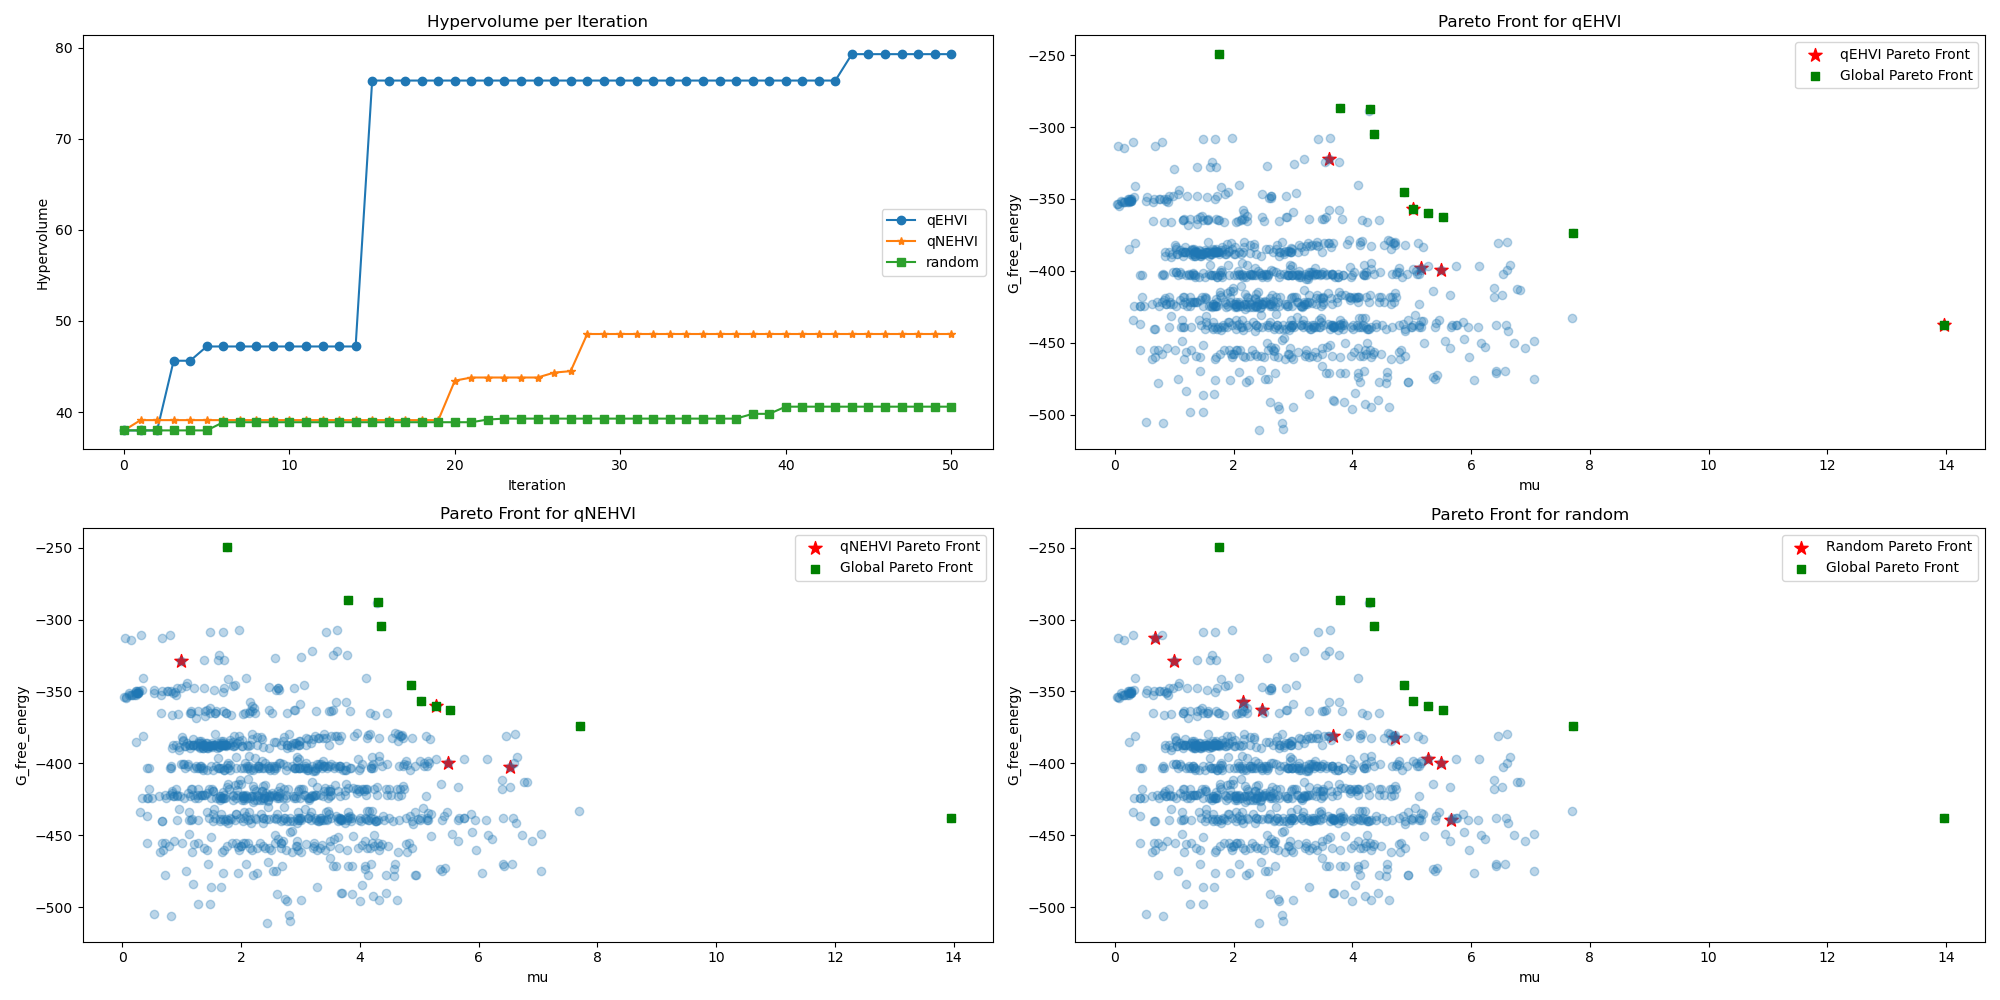
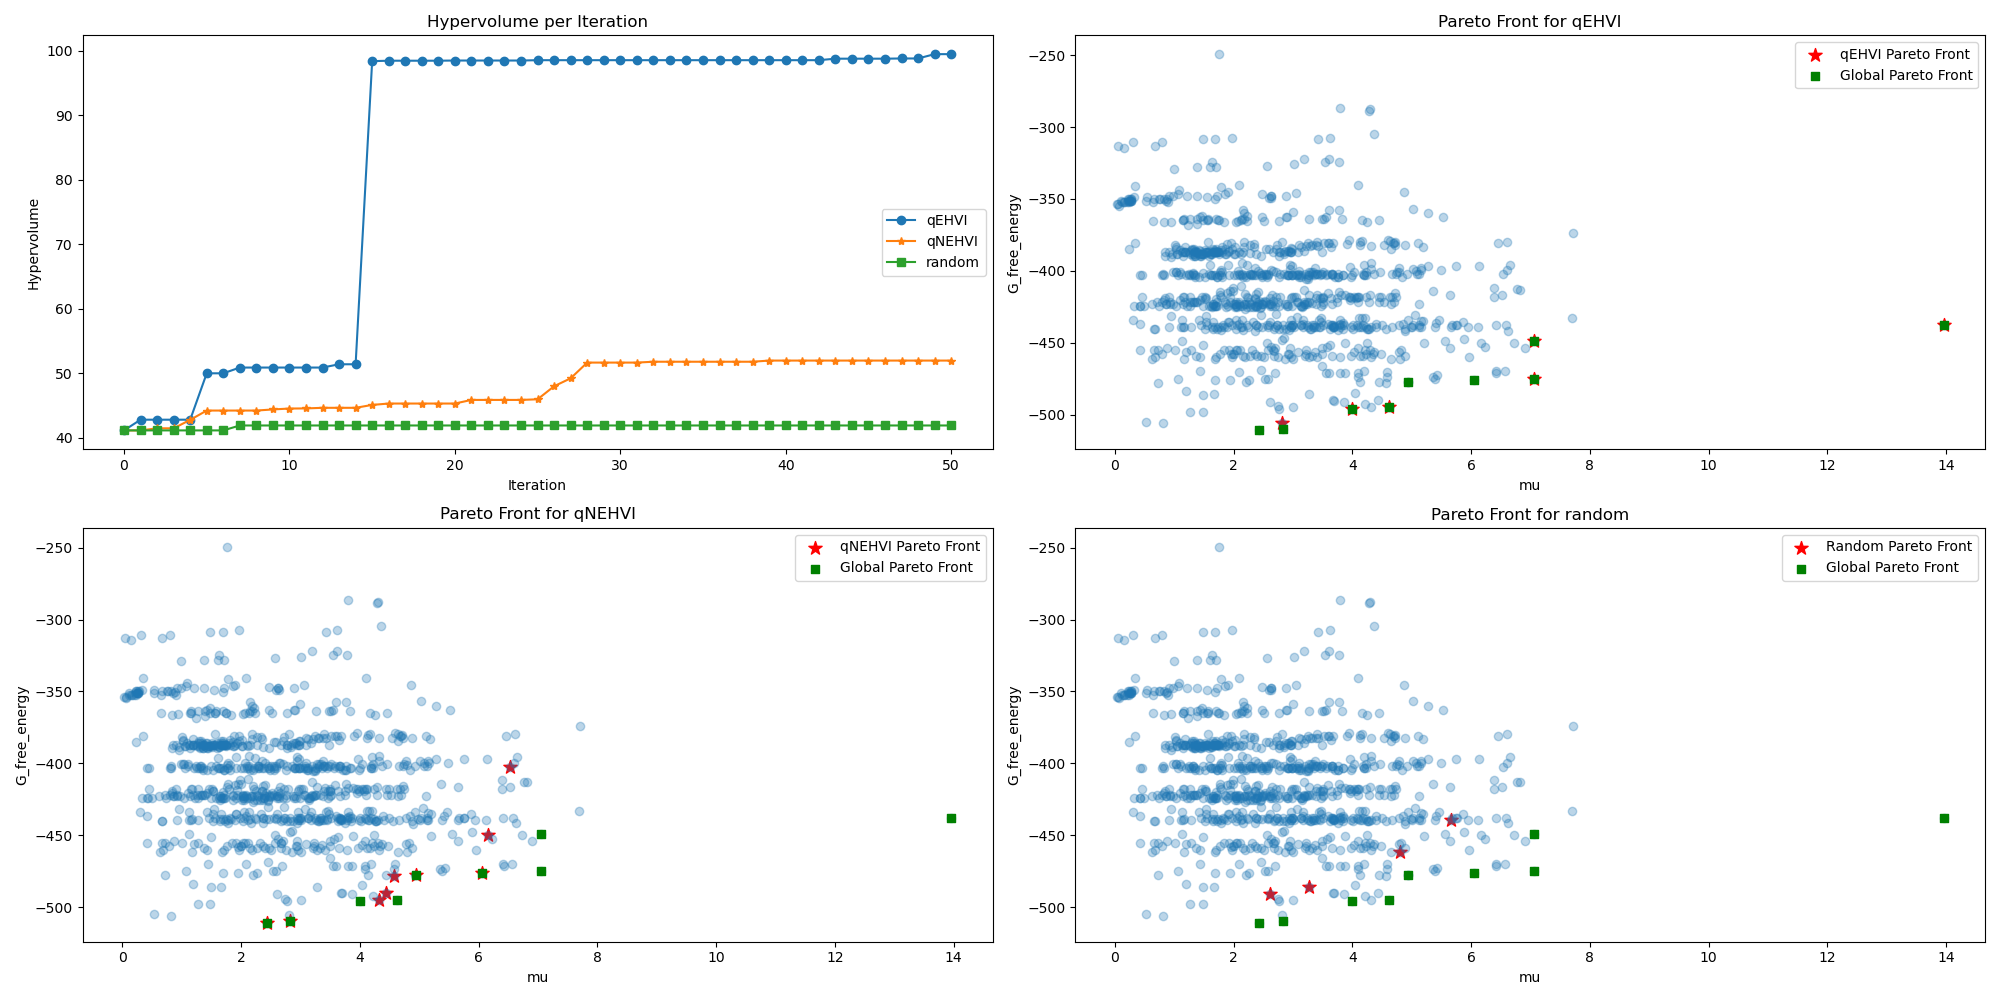
bug fix

diff --git a/src/utils.py b/src/utils.py
@@ -21,14 +21,14 @@ def plot_results(df, targets, target_bool):
     fig, ax = plt.subplots(2, 2, figsize=(20,10))
     ax = ax.flatten()
     global_values = torch.tensor(df[targets].values)
-    for mask in target_bool:
+    for i, mask in enumerate(target_bool):
         if not mask:
-            global_values[:, mask] *= -1
+            global_values[:, i] *= -1
     global_pareto_idx = is_non_dominated(global_values)
     global_pareto_front = global_values[global_pareto_idx]
-    for mask in target_bool:
+    for i, mask in enumerate(target_bool):
         if not mask:
-            global_pareto_front[:, mask] *= -1
+            global_pareto_front[:, i] *= -1
     ref_point = global_values.min(0)[0]
     hv = DominatedPartitioning(ref_point=ref_point, Y=global_values)
     global_hv = hv.compute_hypervolume().item()
@@ -40,9 +40,9 @@ def plot_results(df, targets, target_bool):
         for iter_no in range(max_iterations + 1):
             current_data = df[df[f'iteration_{acq}'] <= iter_no]
             local_values = torch.tensor(current_data[targets].values)
-            for mask in target_bool:
+            for i, mask in enumerate(target_bool):
                 if not mask:
-                    local_values[:, mask] *= -1
+                    local_values[:, i] *= -1
             hv = DominatedPartitioning(ref_point=ref_point, Y=local_values)
             hv_iterations[acq].append(hv.compute_hypervolume().item())
     ax[0].plot(np.array(hv_iterations["qEHVI"]) / global_hv * 100, marker='o', label="qEHVI")
@@ -57,14 +57,14 @@ def plot_results(df, targets, target_bool):
     max_iterations = int(df['iteration_qEHVI'].max())
     current_data = df[df['iteration_qEHVI'] <= max_iterations]
     qEHVI_values = torch.tensor(current_data[targets].values)
-    for mask in target_bool:
+    for i, mask in enumerate(target_bool):
         if not mask:
-            qEHVI_values[:, mask] *= -1
+            qEHVI_values[:, i] *= -1
     qEHVI_pareto_idx = is_non_dominated(qEHVI_values)
     qEHVI_pareto_front = qEHVI_values[qEHVI_pareto_idx]
-    for mask in target_bool:
+    for i, mask in enumerate(target_bool):
         if not mask:
-            qEHVI_pareto_front[:, mask] *= -1
+            qEHVI_pareto_front[:, i] *= -1
     ax[1].scatter(qEHVI_pareto_front[:, 0], qEHVI_pareto_front[:, 1],
         color='red', label="qEHVI Pareto Front", marker="*", s=100)
     ax[1].scatter(df[targets[0]], df[targets[1]], alpha=0.3)
@@ -79,14 +79,14 @@ def plot_results(df, targets, target_bool):
     max_iterations = int(df['iteration_qNEHVI'].max())
     current_data = df[df['iteration_qNEHVI'] <= max_iterations]
     qNEHVI_values = torch.tensor(current_data[targets].values)
-    for mask in target_bool:
+    for i, mask in enumerate(target_bool):
         if not mask:
-            qNEHVI_values[:, mask] *= -1
+            qNEHVI_values[:, i] *= -1
     qNEHVI_pareto_idx = is_non_dominated(qNEHVI_values)
     qNEHVI_pareto_front = qNEHVI_values[qNEHVI_pareto_idx]
-    for mask in target_bool:
+    for i, mask in enumerate(target_bool):
         if not mask:
-            qNEHVI_pareto_front[:, mask] *= -1
+            qNEHVI_pareto_front[:, i] *= -1
     ax[2].scatter(qNEHVI_pareto_front[:, 0], qNEHVI_pareto_front[:, 1],
         color='red', label="qNEHVI Pareto Front", marker="*", s=100)
     ax[2].scatter(df[targets[0]], df[targets[1]], alpha=0.3)
@@ -101,14 +101,14 @@ def plot_results(df, targets, target_bool):
     max_iterations = int(df['iteration_random'].max())
     current_data = df[df['iteration_random'] <= max_iterations]
     random_values = torch.tensor(current_data[targets].values)
-    for mask in target_bool:
+    for i, mask in enumerate(target_bool):
         if not mask:
-            random_values[:, mask] *= -1
+            random_values[:, i] *= -1
     random_pareto_idx = is_non_dominated(random_values)
     random_pareto_front = random_values[random_pareto_idx]
-    for mask in target_bool:
+    for i, mask in enumerate(target_bool):
         if not mask:
-            random_pareto_front[:, mask] *= -1
+            random_pareto_front[:, i] *= -1
     ax[3].scatter(random_pareto_front[:, 0], random_pareto_front[:, 1],
         color='red', label="Random Pareto Front", marker="*", s=100)
     ax[3].scatter(df[targets[0]], df[targets[1]], alpha=0.3)

diff --git a/experiments/mu_G/debug.py b/experiments/mu_G/debug.py
@@ -1,0 +1,16 @@
+from pathlib import Path
+import sys
+
+import matplotlib.pyplot as plt
+import pandas as pd
+
+sys.path.append(str(Path(__file__).parents[2]))
+
+from src.utils import plot_results
+
+df = pd.read_csv("mu_G_results.csv")
+fig = plot_results(df, ["mu", "G_free_energy"], [True, False])
+fig.tight_layout()
+# plt.savefig("mu_G_results.png")
+plt.show()
+

diff --git a/experiments/mu_G/plot.py b/experiments/mu_G/plot.py
@@ -1,0 +1,16 @@
+from pathlib import Path
+import sys
+
+import matplotlib.pyplot as plt
+import pandas as pd
+
+sys.path.append(str(Path(__file__).parents[2]))
+
+from src.utils import plot_results
+
+df = pd.read_csv("mu_G_results.csv")
+fig = plot_results(df, ["mu", "G_free_energy"], [True, False])
+fig.tight_layout()
+plt.savefig("mu_G_results.png")
+plt.show()
+

diff --git a/experiments/mu_gap/plot.py b/experiments/mu_gap/plot.py
@@ -1,0 +1,16 @@
+from pathlib import Path
+import sys
+
+import matplotlib.pyplot as plt
+import pandas as pd
+
+sys.path.append(str(Path(__file__).parents[2]))
+
+from src.utils import plot_results
+
+df = pd.read_csv("mu_gap_results.csv")
+fig = plot_results(df, ["mu", "gap"], [True, False])
+fig.tight_layout()
+plt.savefig("mu_gap_results.png")
+plt.show()
+
